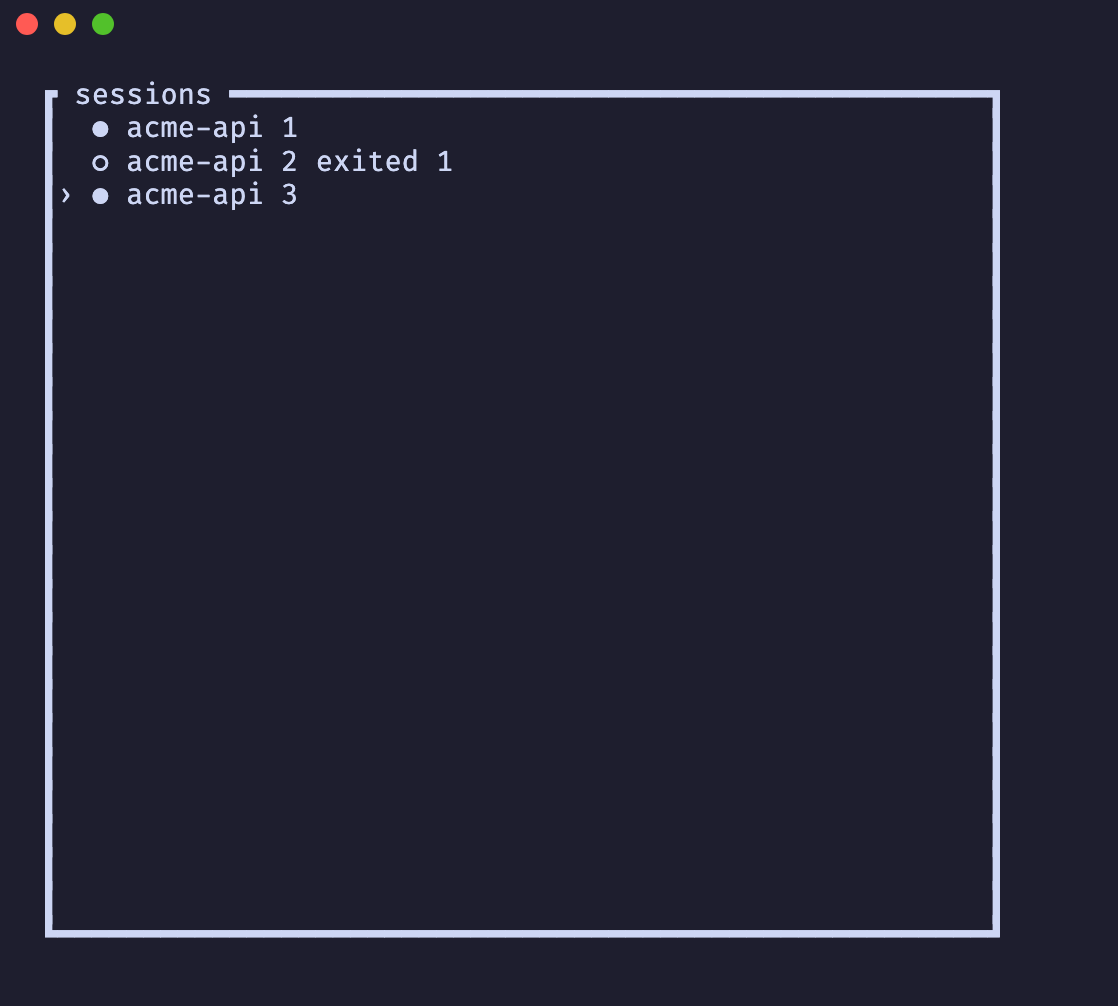
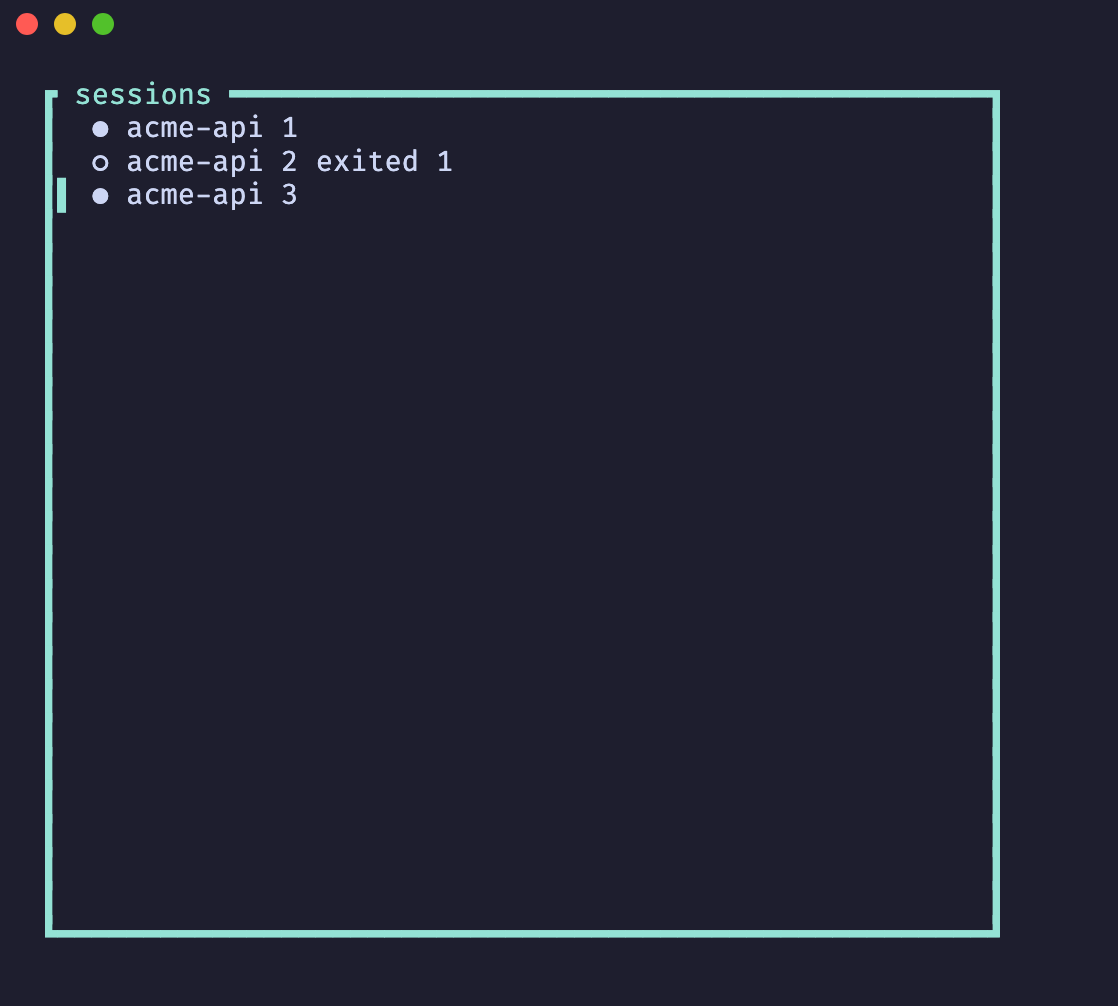
Rerun the screenshots, carrying colour across lines in the converter

Changed region(s): [[0.0304, 0.0924, 0.9123, 0.9553]]

diff --git a/tests/scripts/truecolor.rs b/tests/scripts/truecolor.rs
@@ -1,0 +1,43 @@
+use std::io::Write;
+use std::path::Path;
+use std::process::{Command, Output, Stdio};
+
+use crate::helpers::{stderr, stdout, which};
+
+#[test]
+fn a_colour_set_on_one_line_starts_the_next_line_too() {
+    let output = truecolor("\x1b[38;5;6m┏━┓\n┃ ┃\n");
+
+    let second = stdout(&output).lines().nth(1).unwrap().to_string();
+    assert_eq!(output.status.code(), Some(0), "{}", stderr(&output));
+    assert!(
+        second.starts_with("\x1b[0;38;2;148;226;213m┃"),
+        "{second:?}"
+    );
+}
+
+#[test]
+fn the_output_ends_on_the_last_newline_of_the_input() {
+    let output = truecolor("\x1b[38;5;6m┏━┓\n");
+
+    assert_eq!(output.status.code(), Some(0), "{}", stderr(&output));
+    assert!(stdout(&output).ends_with("┏━┓\n"), "{:?}", stdout(&output));
+}
+
+fn truecolor(input: &str) -> Output {
+    let script = Path::new(env!("CARGO_MANIFEST_DIR")).join("scripts/truecolor.py");
+    let mut child = Command::new(which("python3"))
+        .arg(script)
+        .stdin(Stdio::piped())
+        .stdout(Stdio::piped())
+        .stderr(Stdio::piped())
+        .spawn()
+        .unwrap();
+    child
+        .stdin
+        .take()
+        .unwrap()
+        .write_all(input.as_bytes())
+        .unwrap();
+    child.wait_with_output().unwrap()
+}

diff --git a/scripts/truecolor.py b/scripts/truecolor.py
@@ -51,5 +51,6 @@ def apply(text):
         i += 1
     return style()
 
-text = sys.stdin.read()
-sys.stdout.write(re.sub(r"\033\[([0-9;]*)m", lambda m: apply(m.group(1)), text))
+for n, line in enumerate(sys.stdin.read().split("\n")):
+    prefix = "\n" + (style() if line else "") if n else ""
+    sys.stdout.write(prefix + re.sub(r"\033\[([0-9;]*)m", lambda m: apply(m.group(1)), line))

diff --git a/tests/scripts/main.rs b/tests/scripts/main.rs
@@ -22,6 +22,7 @@ mod scrub_check;
 mod ship;
 mod stable_version;
 mod sweep;
+mod truecolor;
 mod version_check;
 mod version_check_cargo;
 mod version_check_head;
